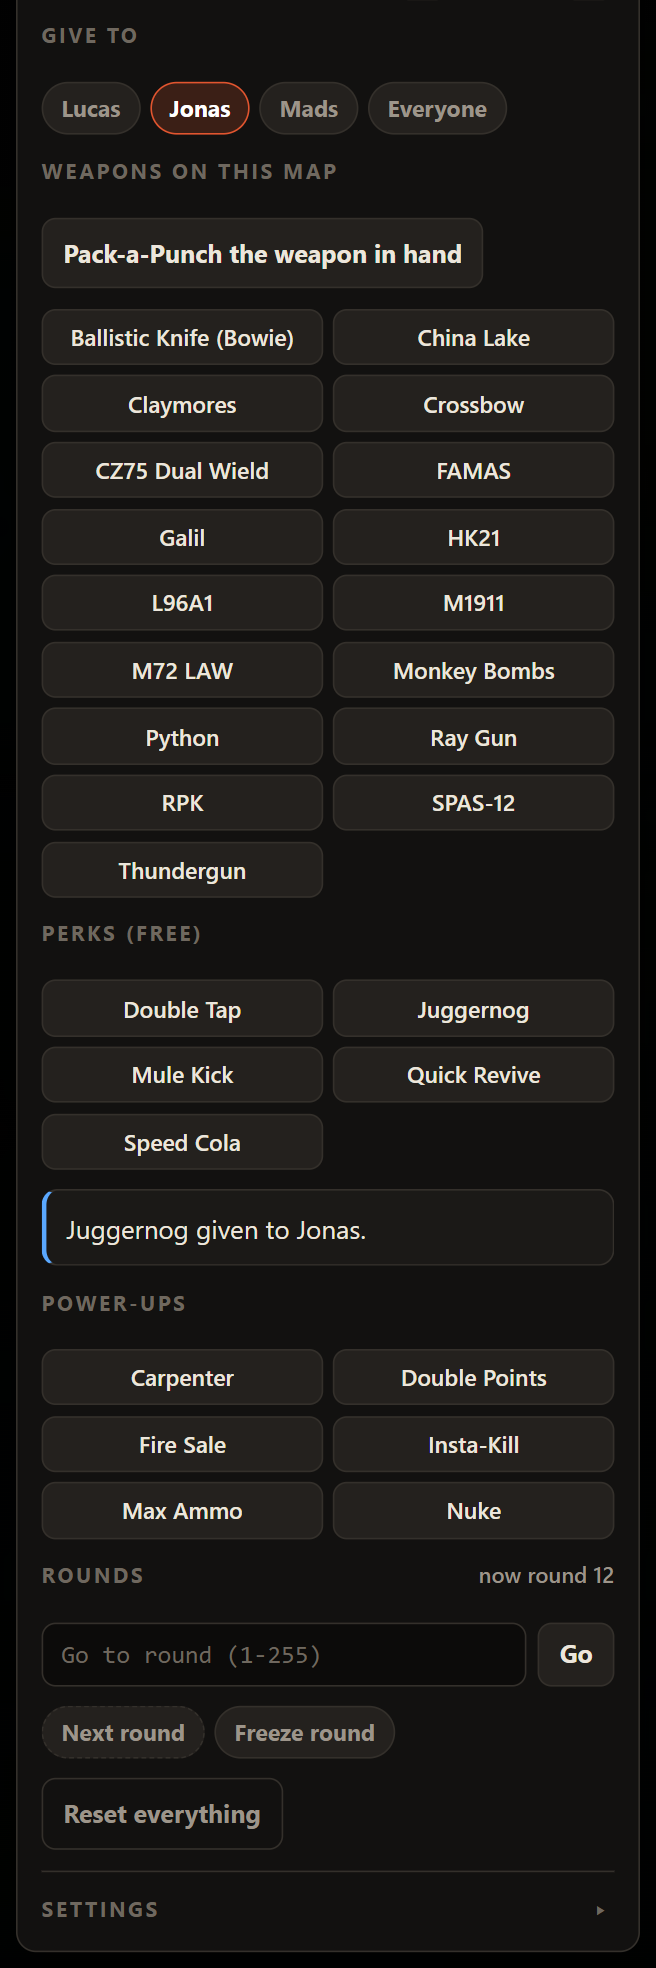
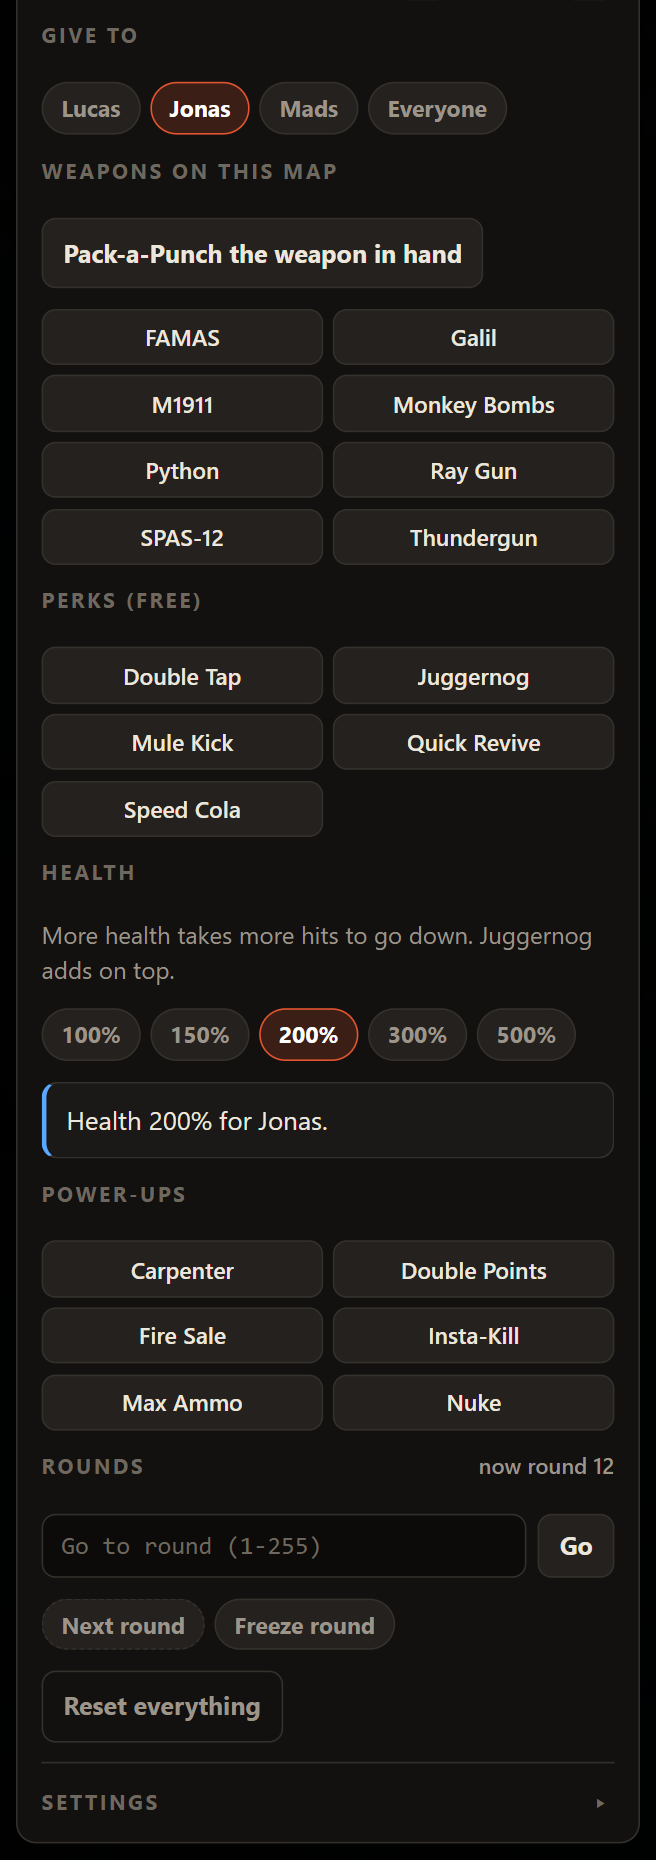
docs: screenshots of every feature; version 2.2.2.4
- README gallery: the big map, the minimap, the cheat menu (with health
  levels), Fun mode and the lobby
- test/ui-preview.mjs: readme-cheats with a short weapon list and a health
  level, readme-fun for Fun mode

diff --git a/extension/coop.js b/extension/coop.js
@@ -1,4 +1,4 @@
-// BO1 Zombies Co-op 2.2.2.3 for vel.gg. Built from src/ with scripts/build.mjs; edit the sources, not this file.
+// BO1 Zombies Co-op 2.2.2.4 for vel.gg. Built from src/ with scripts/build.mjs; edit the sources, not this file.
 (() => {
   // relay/src/protocol.js
   var ROLES = Object.freeze(["host", "guest"]);
@@ -6506,7 +6506,7 @@ button.act.tiny { padding: 5px 6px; font-size: 11.5px; font-weight: 600; }
   }
 
   // src/cheats/version.js
-  var FORK_VERSION = "2.2.2.3";
+  var FORK_VERSION = "2.2.2.4";
 
   // src/util/updates.js
   var LATEST = "https://api.github.com/repos/lucas-gundehug/bo1-zombies-coop/releases/latest";

diff --git a/src/cheats/version.js b/src/cheats/version.js
@@ -1,3 +1,3 @@
 // This fork's release version (extension/manifest.json "version"; a test keeps the two equal). The session protocol's
 // VERSION (src/session/session.js) stays upstream's, so friends on the public extension can still join.
-export const FORK_VERSION = "2.2.2.3";
+export const FORK_VERSION = "2.2.2.4";

diff --git a/README.md b/README.md
@@ -22,9 +22,13 @@ connections between players for smoother co-op.
 
 <table>
   <tr>
-    <td align="center" width="50%"><img src="docs/images/map-kino.png" alt="The in-game map on Kino der Toten" width="100%"><br><b>🗺 The map (N)</b></td>
-    <td align="center" width="25%"><img src="docs/images/fork-cheats.png" alt="The cheat menu: give to, weapons on this map, perks, power-ups and rounds" width="100%"><br><b>🔫 The cheat menu (M)</b></td>
-    <td align="center" width="25%"><img src="docs/images/fork-lobby.png" alt="The lobby: four players, two on a direct link and one on the relay" width="100%"><br><b>🔗 Direct connections</b></td>
+    <td align="center" colspan="4" valign="top"><img src="docs/images/map-kino.png" alt="The in-game map on Kino der Toten: rooms, the player in the Lobby, closed doors with prices, the game's perk icons and Mystery Box spots" width="100%"><br><b>🗺 The map (N)</b><br><sub>Rooms, your friends, closed doors with prices, perks, the box, Pack-a-Punch and power</sub></td>
+    <td align="center" colspan="2" valign="top"><img src="docs/images/minimap.png" alt="The minimap in the top left corner: the room name on top, the player in the middle" width="100%"><br><b>🧭 The minimap</b><br><sub>Always in the corner, scrolls with you</sub></td>
+  </tr>
+  <tr>
+    <td align="center" colspan="2" valign="top"><img src="docs/images/fork-cheats.png" alt="The cheat menu: give to, weapons on this map, Pack-a-Punch, free perks, health levels, power-ups and rounds" width="100%"><br><b>🔫 The cheat menu (M)</b><br><sub>Weapons, perks, health, power-ups, rounds</sub></td>
+    <td align="center" colspan="2" valign="top"><img src="docs/images/fork-fun.png" alt="Fun mode: god mode, can't die, invisible, noclip, fly, speed and points per player; ammo, zombies and world settings" width="100%"><br><b>🕹 Fun mode</b><br><sub>God mode, flying, speed, points, ammo, gravity</sub></td>
+    <td align="center" colspan="2" valign="top"><img src="docs/images/fork-lobby.png" alt="The lobby with four players: two on a direct link, one on the relay" width="100%"><br><b>🔗 Co-op for 4</b><br><sub>Direct connections, relay as a fallback</sub></td>
   </tr>
 </table>
 
